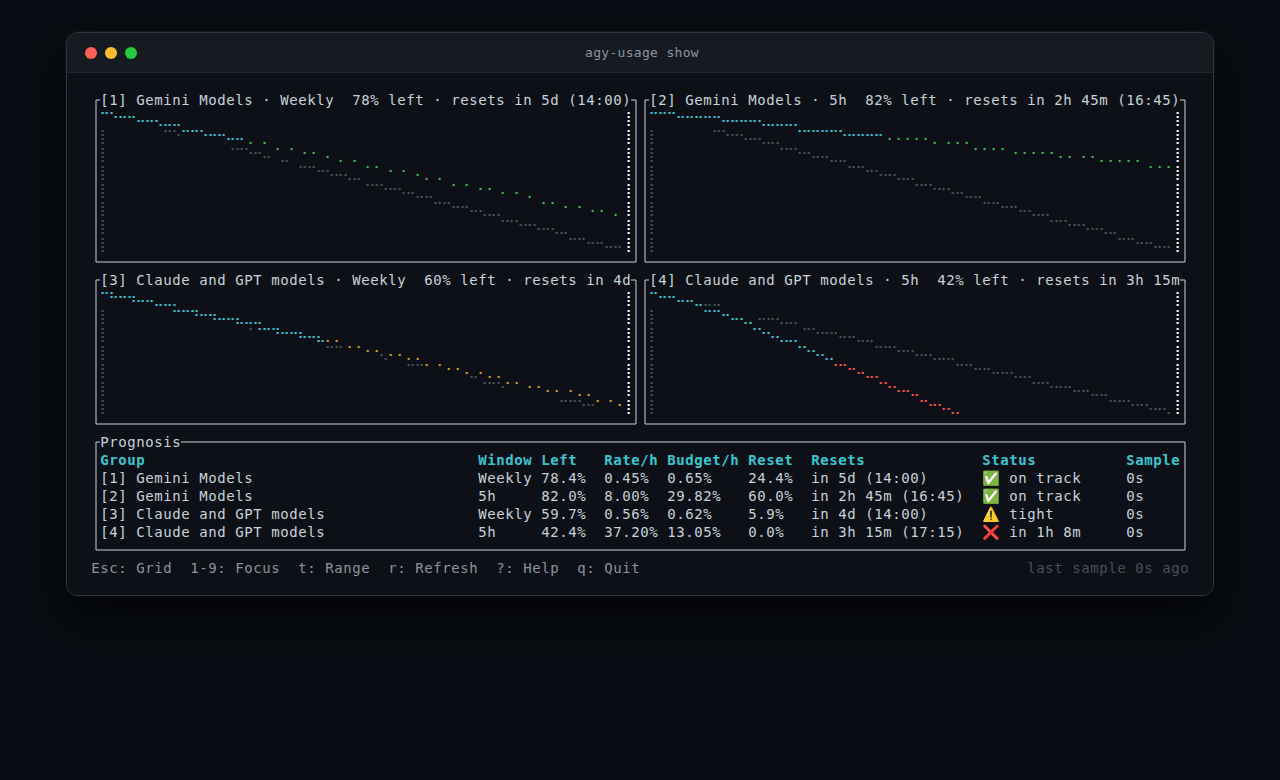
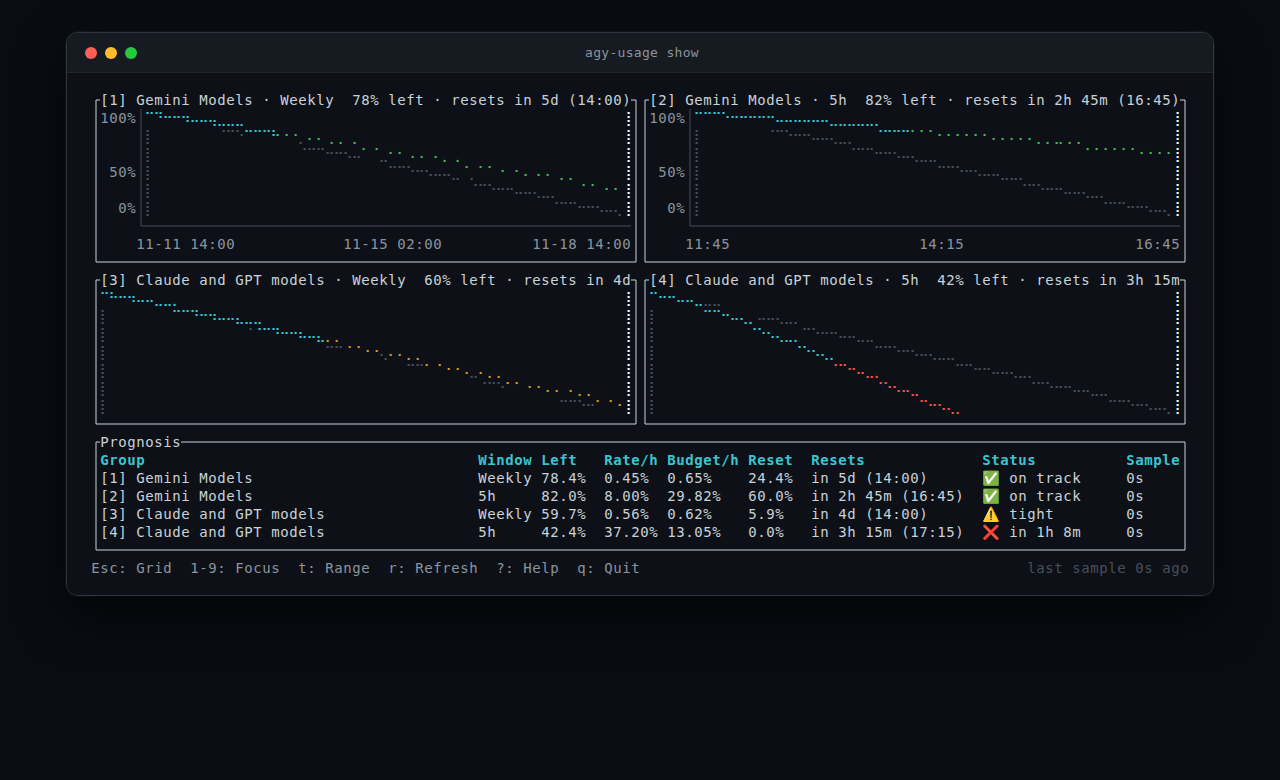
chore(release): prepare v0.6.0 (#29)

diff --git a/CHANGELOG.md b/CHANGELOG.md
@@ -7,6 +7,39 @@ and this project adheres to [Semantic Versioning](https://semver.org/spec/v2.0.0
 
 ## [Unreleased]
 
+## [0.6.0] - 2026-11-13
+
+### Added
+- **Read-Only `status` & `doctor` Subcommands (`src/status.rs`, `src/doctor.rs`, `src/main.rs`, `src/lib.rs`)**:
+  - Added `agy-usage status` (`--format oneline|waybar|tmux|json` and `--json`, `schema_version: 1`) for fast, zero-`agy`-invocation status output from local `samples.jsonl` (`history_days = 0`), with `BrokenPipe` handling and control-character / Unicode line-separator sanitization.
+  - Added `agy-usage doctor [--json]` to inspect `agy` executable resolution, data directory accessibility, `samples.jsonl` health (`store::summarize`), `dashboard.html` readability, `systemd`/`launchd` timer unit configuration and cadence, and active clock-format resolution.
+- **Configurable Collection Timer Cadence (`src/timer.rs`, `src/main.rs`)**:
+  - Added `agy-usage install-timer --interval <MINUTES>` supporting divisors of 60 (`1, 2, 3, 4, 5, 6, 10, 12, 15, 20, 30, 60`, default `5`; `OnCalendar=*:00` for `60` on `systemd` and `StartInterval` on `launchd`), with dynamic staleness thresholds (`max(interval * 2, 15m)`) in `tui`, `status`, and `doctor`.
+- **Interactive TUI & Self-Contained HTML Dashboard Enhancements (`src/tui.rs`, `src/html.rs`, `assets/dashboard.html`)**:
+  - Added TUI X/Y chart axis ticks on panes `>= 44x10`, backward range cycling (`T`/`W`), keyboard bucket focus navigation (`j`/`k`, `↑`/`↓`, `Tab`/`BackTab`), `o` to render and open `dashboard.html` in the default browser, `0` to dismiss help/focus, and `[10]+` table index badges.
+  - Added unified 6-button range toggles (`Window`, `5h`, `24h`, `7d`, `30d`, `All`) with a global header range bar, light/dark theme toggle (WCAG AA contrast), opt-in 60s visibility-gated auto-reload, `html::compress_series` point deduplication with JS boundary interpolation, and permission/fsync-safe `html::write_atomic`.
+- **Cross-Platform Clock Auto-Detection & CI Coverage (`src/clock.rs`, `.github/workflows/ci.yml`)**:
+  - Extended `--clock auto` to gate Linux `gsettings` probing on GNOME-family `XDG_CURRENT_DESKTOP` values and query macOS `defaults read -g` (`AppleICUForce24HourTime`, `AppleICUForce12HourTime`, `AppleLocale`) before `LC_TIME` and `24h` fallbacks.
+  - Added `macos-latest` test coverage, Draft PR skip guards (`ready_for_review`), concurrency cancellation, and `--locked` enforcement in `.github/workflows/ci.yml`.
+
+### Changed
+- **Forecasting & Burn-Rate Estimation (`src/forecast.rs`)**:
+  - Applied recency-weighted EWLS (`tau = lookback / 4` on lookbacks `>= 6h`, i.e., windows `>= 30h`) so long-window burn rates adapt faster to recent usage changes.
+  - Treated untouched `100%` rolling-reset plateaus spanning `>= 15m` as `Status::OnTrack` and generalized shorter-window sibling orphan suppression across parsed window lengths scoped by `(group, family)`.
+- **Library API (`src/lib.rs`, `src/source.rs`, `src/tui.rs`, `src/model.rs`, `src/store.rs`, `src/timer.rs`)**:
+  - Generalized `source::fetch`, `source::fetch_with_timeout`, `source::fetch_with_timeout_and_cancel`, `tui::run`, and `tui::run_with_history` binary path parameters from `&str` to `<P: AsRef<Path>>`, and enforced strict absolute `PATH` lookup via `source::resolve_agy_bin` / `source::configured_agy_bin`.
+  - Exposed `doctor` and `status` modules, `write_broken_pipe_safe` / `write_line_broken_pipe_safe` / `sanitize_single_line`, `model::parse_tight_threshold` / `normalize_tight_threshold`, `store::summarize` (`StoreSummary`), and `timer::TimerConfig` / interval helpers.
+
+### Fixed
+- **Locking, Readability & Store Integrity (`src/store.rs`, `src/source.rs`, `src/doctor.rs`, `src/timer.rs`)**:
+  - Closed unlocked-read and initial lockfile creation races in `store` by coordinating `flock` across `samples.lock` and `samples.jsonl` in consistent order and propagating permission/I/O errors instead of treating unreadable paths as missing.
+  - Added non-blocking (`O_NONBLOCK` on Unix) and no-follow (`O_NOFOLLOW` on `samples.lock`) regular-file validation across `store` readers/writers without mutating disk prior to path checks, isolated unterminated trailing lines in `store::append`, scanned full files in `store::oldest_timestamp` for minimum valid sample timestamps, and aligned `store::summarize` with `store::load` on unterminated final lines.
+  - Aligned `doctor`'s `-60s` future clock-skew threshold and added symlink/non-regular `samples.lock` diagnostics, rejected zero-minute timer intervals (`OnCalendar=*:0/0` / `StartInterval=0`), and added `source::parse_usage_with_warnings` diagnostics for malformed enabled buckets.
+- **CLI Pipe Safety, Escaping & Responsive UI (`src/main.rs`, `src/status.rs`, `src/tui.rs`, `assets/dashboard.html`)**:
+  - Routed remaining CLI and diagnostic outputs (`collect`, `html`, `install-timer`, `uninstall-timer`, `show --once`, and stderr warnings) through `BrokenPipe`-safe writers.
+  - Pango-escaped Waybar tooltip content (`escape_pango`) while keeping plain/tmux/JSON outputs unescaped, and sanitized TUI charts, tables, and status-bar `state.message` banners against ANSI escapes and Unicode line separators.
+  - Fixed `tui::print_once` terminal sizing (`once_dimensions`), rendered the status bar on empty-store screens (`height >= 4`), guarded `< 8`-row terminals in both focus and grid views, cleared out-of-range focus on shrink reloads, capped dense multi-bucket chart grids with an overflow hint, and added `.chart-title` word wrapping for narrow mobile viewports in `assets/dashboard.html`.
+
 ## [0.5.0] - 2026-10-29
 
 ### Added
@@ -169,6 +202,7 @@ Initial release of `agy-usage`: quota history, burn-rate prognosis, and interact
   - Standalone, stripped Linux x86_64 binary archives with SHA-256 checksums published via automated GitHub Release workflow.
   - Automated one-line curl installation script (`install.sh`) with automated SHA-256 checksum verification.
 
+[0.6.0]: https://github.com/danieljov/agy-usage/compare/v0.5.0...v0.6.0
 [0.5.0]: https://github.com/danieljov/agy-usage/compare/v0.4.0...v0.5.0
 [0.4.0]: https://github.com/danieljov/agy-usage/compare/v0.3.1...v0.4.0
 [0.3.1]: https://github.com/danieljov/agy-usage/compare/v0.3.0...v0.3.1

diff --git a/README.md b/README.md
@@ -20,7 +20,7 @@ Quota history, burn-rate prognosis, and interactive TUI/HTML dashboards for Goog
 
 [![HTML Web Dashboard](https://raw.githubusercontent.com/danieljov/agy-usage/main/assets/screenshots/dashboard.png)](https://danieljov.github.io/agy-usage)
 
-Features **window-aware defaults** (5h charts default to 5h, weekly to 7d), **synchronized hover crosshairs & tooltips** across all charts, and **client-side range toggles** (`5h`, `24h`, `7d`, `30d`, `All`) with automatic reset line decluttering past 48h and 100% offline vendored assets.
+Features **window-aware defaults** (5h charts default to 5h, weekly to 7d), **synchronized hover crosshairs & tooltips** across all charts, a **light/dark theme toggle** and opt-in **Auto 60s** reload, and **global + per-card client-side range toggles** (`Window`, `5h`, `24h`, `7d`, `30d`, `All`) with automatic reset line decluttering past 48h and 100% offline vendored assets.
 
 The [live demo](https://danieljov.github.io/agy-usage) is rendered from synthetic data and rebuilt every 6 hours (as well as on pushes to `main`) via GitHub Actions (`cargo run --example generate_demo`). Relative timestamps and exhaustion prognoses reflect the state at the last deployment.
 
@@ -42,7 +42,7 @@ Pre-compiled standalone binaries for Linux (`x86_64-unknown-linux-gnu`, `aarch64
 Replace `x86_64-unknown-linux-gnu` with `aarch64-unknown-linux-gnu`, `x86_64-apple-darwin`, or `aarch64-apple-darwin` to match your platform:
 ```bash
 TMP_DIR=$(mktemp -d)
-curl -fsSL https://github.com/danieljov/agy-usage/releases/download/v0.5.0/agy-usage-v0.5.0-x86_64-unknown-linux-gnu.tar.gz | tar -xz -C "$TMP_DIR"
+curl -fsSL https://github.com/danieljov/agy-usage/releases/download/v0.6.0/agy-usage-v0.6.0-x86_64-unknown-linux-gnu.tar.gz | tar -xz -C "$TMP_DIR"
 mkdir -p ~/.local/bin
 mv "$TMP_DIR"/agy-usage-*/agy-usage ~/.local/bin/
 rm -rf "$TMP_DIR"
